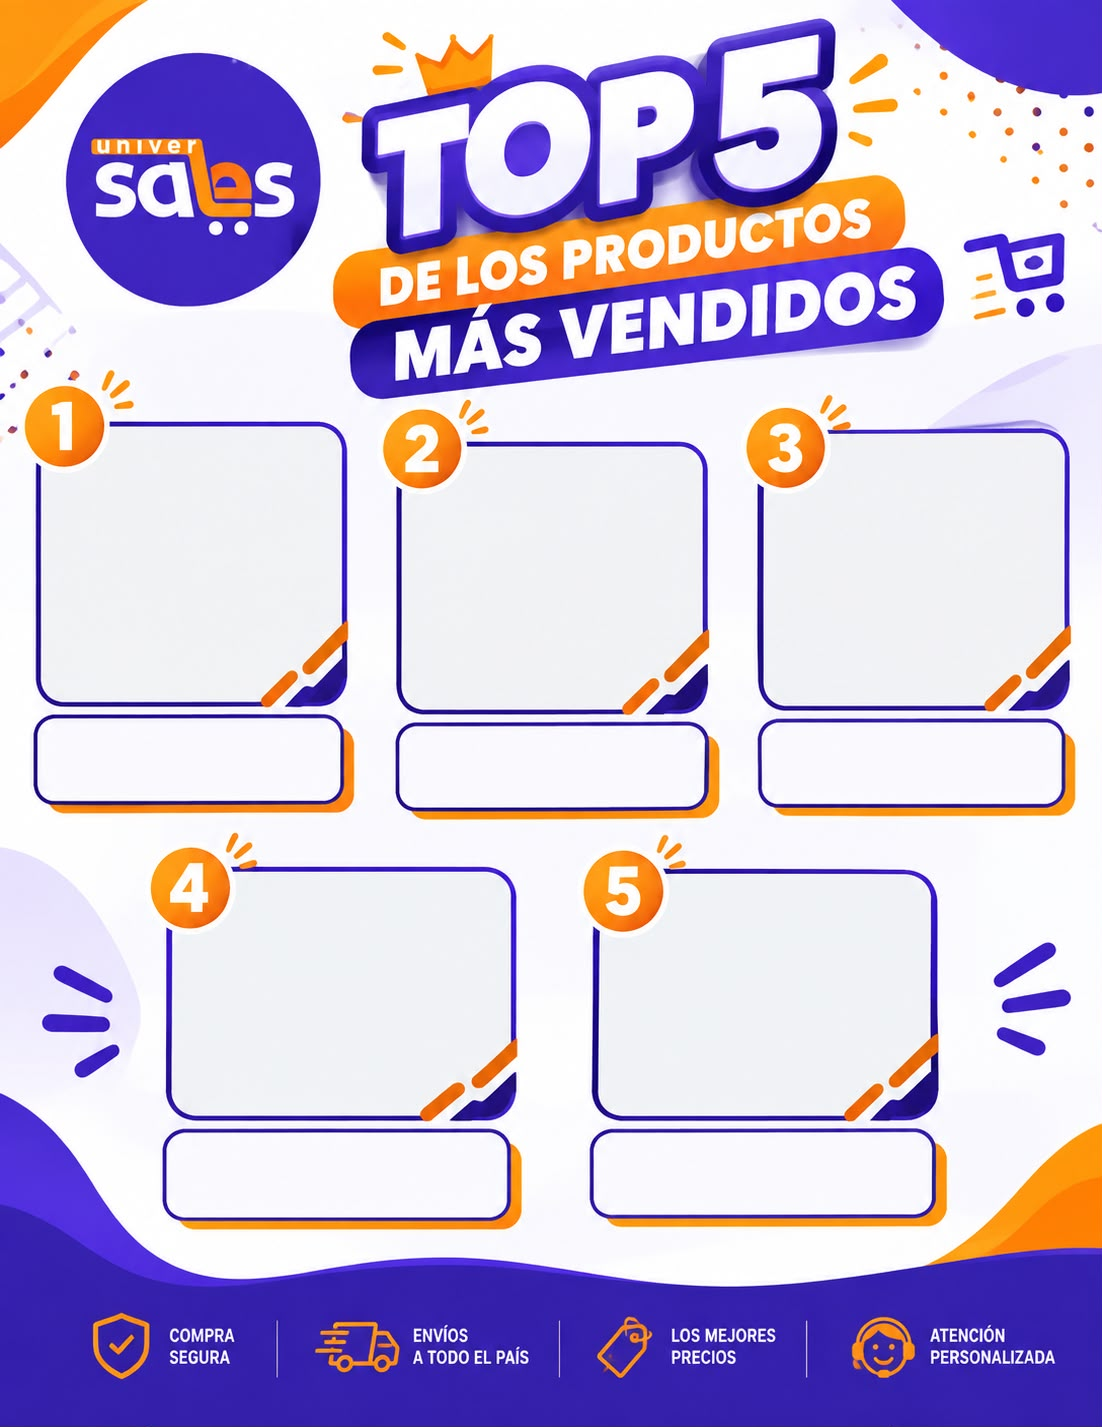
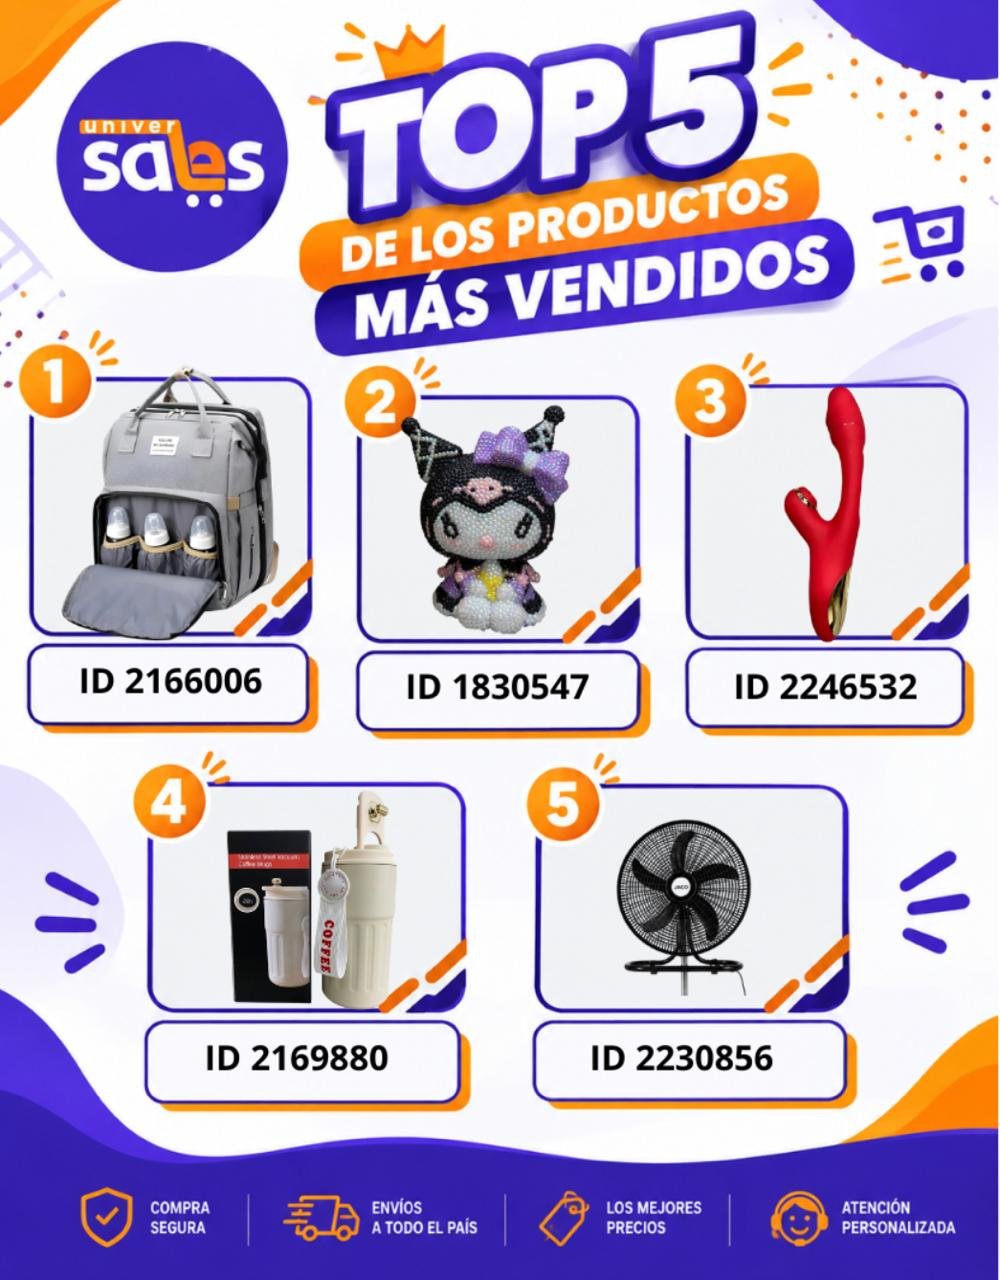
Ajusta textos a español neutro, valida nombre/tienda/whatsapp, agrega selector de país y botón de compartir; usa la imagen definitiva del Top 5

diff --git a/index.html b/index.html
@@ -105,7 +105,10 @@
     font-weight:600;
     text-transform:none;
   }
-  .field input{
+  .field label .req{
+    color:var(--orange-600);
+  }
+  .field input, .field select{
     width:100%;
     border:2px solid var(--purple-200);
     background:#fff;
@@ -117,7 +120,19 @@
     color:var(--ink);
     outline-offset:2px;
   }
-  .field input:focus{border-color:var(--orange-500);}
+  .field input:focus, .field select:focus{border-color:var(--orange-500);}
+  .phone-row{
+    display:flex;
+    gap:.5rem;
+  }
+  .phone-row select{
+    flex:0 0 auto;
+    width:auto;
+    max-width:7.6rem;
+    padding-left:.5rem;
+    padding-right:.3rem;
+  }
+  .phone-row input{flex:1 1 auto;min-width:0;}
   .field .err{
     display:none;
     color:var(--orange-600);
@@ -181,6 +196,28 @@
     font-size:.85rem;
     margin:0 0 1.1rem;
   }
+  .actions{
+    display:flex;
+    flex-direction:column;
+    gap:.7rem;
+  }
+  .share{
+    display:inline-flex;
+    align-items:center;
+    justify-content:center;
+    gap:.5rem;
+    width:100%;
+    background:linear-gradient(180deg,var(--orange-500),var(--orange-600));
+    color:#fff;
+    font-family:'Baloo 2',sans-serif;
+    font-weight:700;
+    font-size:.98rem;
+    border:none;
+    border-radius:14px;
+    padding:.85rem;
+    box-shadow:0 12px 22px -8px rgba(232,114,11,.6);
+  }
+  .share[hidden]{display:none;}
   .download{
     display:inline-block;
     width:100%;
@@ -214,29 +251,41 @@
     </div>
 
     <div class="form-screen" id="formScreen">
-      <h1>Descubrí el Top 5 de productos más vendidos</h1>
-      <p class="lead">Completá tus datos y recibí al instante la imagen con los 5 productos estrella para tu tienda.</p>
+      <h1>Descubre el Top 5 de productos más vendidos</h1>
+      <p class="lead">Completa tus datos y recibe al instante la imagen con los 5 productos estrella para tu tienda.</p>
 
       <form id="leadForm" novalidate>
         <div class="field" data-field="nombre">
-          <label for="nombre">Nombre completo</label>
+          <label for="nombre">Nombre completo <span class="req">*</span></label>
           <input id="nombre" name="nombre" type="text" autocomplete="name" required>
-          <div class="err">Escribí tu nombre completo.</div>
+          <div class="err">Escribe tu nombre completo (solo letras).</div>
         </div>
         <div class="field" data-field="tienda">
-          <label for="tienda">Nombre de la tienda</label>
+          <label for="tienda">Nombre de la tienda <span class="req">*</span></label>
           <input id="tienda" name="tienda" type="text" autocomplete="organization" required>
-          <div class="err">Contanos el nombre de tu tienda.</div>
+          <div class="err">Cuéntanos el nombre de tu tienda.</div>
         </div>
         <div class="field" data-field="whatsapp">
-          <label for="whatsapp">WhatsApp</label>
-          <input id="whatsapp" name="whatsapp" type="tel" inputmode="tel" autocomplete="tel" placeholder="+57 300 000 0000" required>
-          <div class="err">Ingresá un WhatsApp válido.</div>
+          <label for="whatsapp">WhatsApp <span class="req">*</span></label>
+          <div class="phone-row">
+            <select id="whatsappCountry" aria-label="Código de país">
+              <option value="+57" selected>Colombia +57</option>
+              <option value="+52">México +52</option>
+              <option value="+51">Perú +51</option>
+              <option value="+593">Ecuador +593</option>
+              <option value="+58">Venezuela +58</option>
+              <option value="+507">Panamá +507</option>
+              <option value="+1">EE. UU. +1</option>
+              <option value="+34">España +34</option>
+            </select>
+            <input id="whatsapp" name="whatsapp" type="tel" inputmode="numeric" autocomplete="tel-national" placeholder="300 000 0000" required>
+          </div>
+          <div class="err">Ingresa un WhatsApp válido (solo números).</div>
         </div>
         <div class="field" data-field="correo">
           <label for="correo">Correo <span class="opt">(opcional)</span></label>
           <input id="correo" name="correo" type="email" autocomplete="email">
-          <div class="err">Revisá el formato del correo.</div>
+          <div class="err">Revisa el formato del correo.</div>
         </div>
 
         <button type="submit" class="cta" id="submitBtn">Ver mi Top 5 →</button>
@@ -248,9 +297,12 @@
       <div class="result-img-wrap">
         <img src="assets/top5-productos.jpg" alt="Top 5 de los productos más vendidos - Universales">
       </div>
-      <h2>¡Acá tenés tu Top 5!</h2>
-      <p>Guardala o compartila directo desde tu galería.</p>
-      <a class="download" id="downloadBtn" href="assets/top5-productos.jpg" download="top5-universales.jpg">Descargar imagen</a>
+      <h2>¡Aquí tienes tu Top 5!</h2>
+      <p>Compártela directo a tu WhatsApp o guárdala en tu galería.</p>
+      <div class="actions">
+        <button type="button" class="share" id="shareBtn" hidden>Compartir por WhatsApp →</button>
+        <a class="download" id="downloadBtn" href="assets/top5-productos.jpg" download="top5-universales.jpg">Descargar imagen</a>
+      </div>
       <p class="sync-note" id="syncNote"></p>
     </div>
 
@@ -308,13 +360,57 @@
   var formScreen = document.getElementById("formScreen");
   var resultScreen = document.getElementById("resultScreen");
   var syncNote = document.getElementById("syncNote");
+  var whatsappCountry = document.getElementById("whatsappCountry");
+  var shareBtn = document.getElementById("shareBtn");
+  var RESULT_IMG = "assets/top5-productos.jpg";
+
+  function canShareFiles(){
+    if (!navigator.share || !navigator.canShare) return false;
+    try {
+      var probe = new File([""], "probe.jpg", { type: "image/jpeg" });
+      return navigator.canShare({ files: [probe] });
+    } catch(e){ return false; }
+  }
+
+  if (canShareFiles()) shareBtn.hidden = false;
+
+  shareBtn.addEventListener("click", function(){
+    fetch(RESULT_IMG)
+      .then(function(res){ return res.blob(); })
+      .then(function(blob){
+        var file = new File([blob], "top5-universales.jpg", { type: "image/jpeg" });
+        return navigator.share({
+          files: [file],
+          title: "Top 5 Universales",
+          text: "Mirá el Top 5 de productos más vendidos de Universales"
+        });
+      })
+      .catch(function(){ /* el usuario canceló el share o el navegador lo bloqueó: no hacemos nada */ });
+  });
+
+  // El nombre solo debe llevar letras (con tildes/ñ) y espacios.
+  var NOMBRE_RE = /^[A-Za-zÀ-ÖØ-öø-ÿñÑ\s]{3,}$/;
+  // La tienda puede llevar letras, números y algo de puntuación común.
+  var TIENDA_RE = /^[A-Za-zÀ-ÖØ-öø-ÿñÑ0-9\s&.,'-]{2,}$/;
 
   var validators = {
-    nombre: function(v){ return v.trim().length >= 3; },
-    tienda: function(v){ return v.trim().length >= 2; },
-    whatsapp: function(v){ return v.replace(/[^0-9]/g,"").length >= 7; },
+    nombre: function(v){ return NOMBRE_RE.test(v.trim()); },
+    tienda: function(v){ return TIENDA_RE.test(v.trim()); },
+    whatsapp: function(v){
+      var digits = v.replace(/[^0-9]/g,"");
+      return digits.length >= 7 && digits.length <= 10 && digits === v.trim();
+    },
     correo: function(v){ return v.trim() === "" || /^[^\s@]+@[^\s@]+\.[^\s@]+$/.test(v.trim()); }
   };
+
+  // Evita que se puedan escribir números/símbolos en el nombre mientras se tipea.
+  form.nombre.addEventListener("input", function(){
+    this.value = this.value.replace(/[^A-Za-zÀ-ÖØ-öø-ÿñÑ\s]/g, "");
+  });
+  // El WhatsApp solo admite dígitos.
+  form.whatsapp.addEventListener("input", function(){
+    this.value = this.value.replace(/[^0-9]/g, "").slice(0, 10);
+  });
 
   function validate(){
     var ok = true;
@@ -338,7 +434,7 @@
     var data = {
       nombre: form.nombre.value.trim(),
       tienda: form.tienda.value.trim(),
-      whatsapp: form.whatsapp.value.trim(),
+      whatsapp: whatsappCountry.value + " " + form.whatsapp.value.trim(),
       correo: form.correo.value.trim(),
       fecha: new Date().toISOString()
     };
